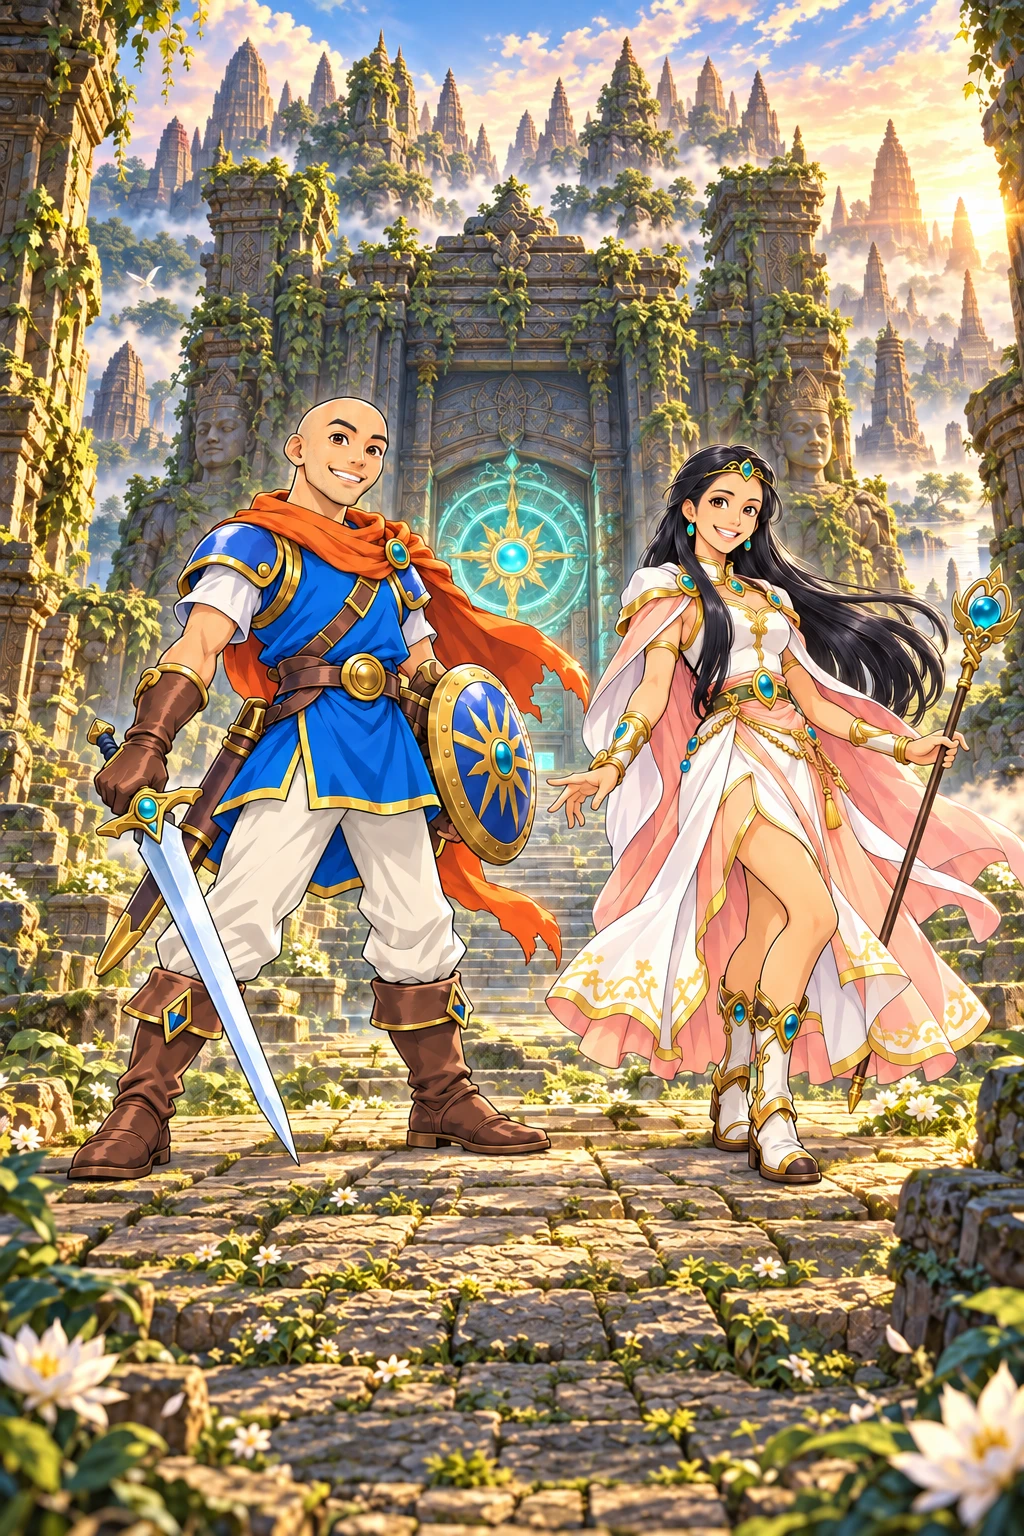
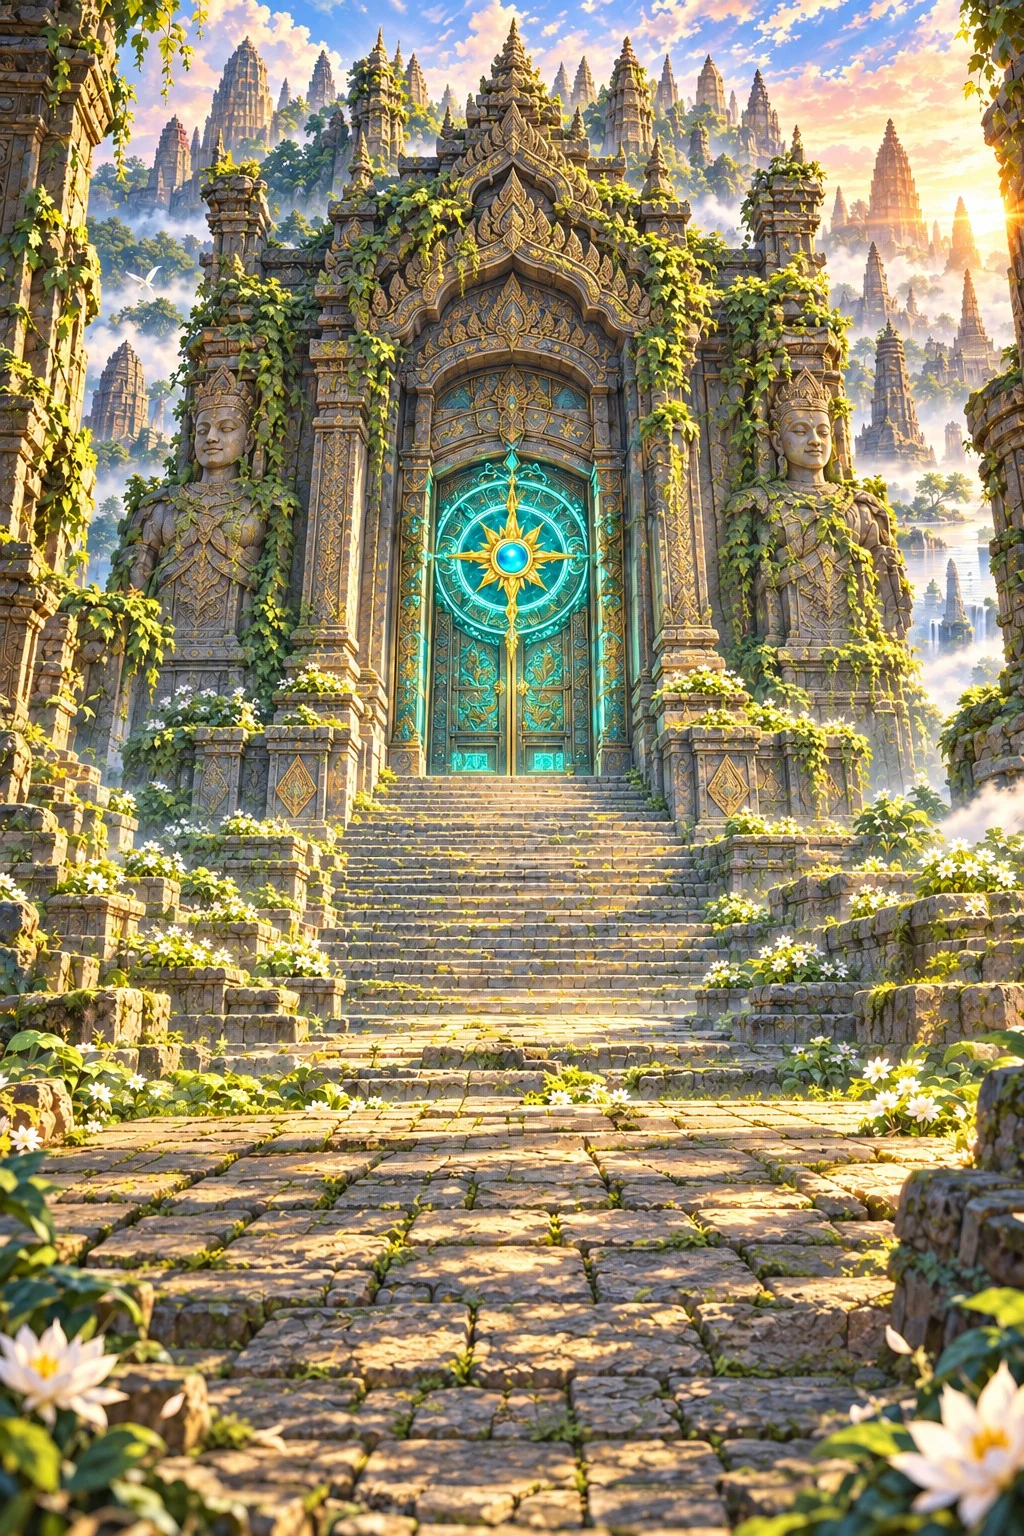
タイトル画面を「タイの大冒険」に（ZIP thai_title_parts_v1：人物なしの背景・ロゴ・ボタンは別々）
ページの題名もタイの大冒険に。ロゴは画面の幅に収め、扉の紋章はロゴ・ボタンで隠さない。
はじめからは青緑、つづきからは金。縦に余った所は同じ背景をぼかして敷く。セーブ・ボタンの動作は変えない。
確認：tools/title-thai-check.js（幅360・390・430・低い画面・横画面）

Claude-Session: https://claude.ai/code/session_01HDLigwwegm7F2trSGLBQuS

diff --git a/css/style.css b/css/style.css
@@ -44,20 +44,23 @@ canvas { display: block; image-rendering: pixelated; image-rendering: crisp-edge
 .screen.active { display: flex; }
 
 /* ---------- タイトル ---------- */
-/* 採用タイトル「封印の遺跡」：背景と二人の絵（2:3）にロゴを重ね、ボタンは絵の下部（高さ78%から）に置く。
- * 絵は画面の幅いっぱい（縦長の端末では左右を少しだけ切って大きく）。顔・ロゴ・ボタンが切れないことを優先し、
- * 余った上下は深緑でつなぐ。低い画面では縦にスクロールできる（ボタンは小さくしない）。横画面は絵の右にボタン。 */
-#screen-title { position: relative; flex-direction: column; align-items: center; justify-content: flex-start; background: #0c261c;
+/* タイトル「タイの大冒険」（ZIP thai_title_parts_v1）：人物なしの背景（2:3）にロゴを重ね、ボタンは扉の下の階段（高さ57%から）に置く。
+ * 絵は画面の幅いっぱい（縦長の端末では左右を少しだけ切る）。ロゴは画面の幅に収め、扉の紋章はロゴ・ボタンで隠さない。
+ * 余った下は同じ背景をぼかして敷く。低い画面では縦にスクロールできる（ボタンは小さくしない）。横画面は絵の右にボタン。 */
+#screen-title { position: relative; flex-direction: column; align-items: center; justify-content: flex-start; background: #2b2619;
   overflow-x: hidden; overflow-y: auto; -webkit-overflow-scrolling: touch;
   padding: env(safe-area-inset-top) env(safe-area-inset-right) env(safe-area-inset-bottom) env(safe-area-inset-left); }
-.title-wrap { --tw: min(600px, 112vw, calc(var(--app-h, 100vh) * 0.6667)); position: relative; flex: none; width: var(--tw);
+.title-wrap { --tw: min(600px, 118vw, calc(var(--app-h, 100vh) * 0.6667)); position: relative; flex: none; width: var(--tw);
   padding-bottom: max(14px, calc(190px - var(--tw) * 0.33)); }
-.title-art-box { position: relative; width: 100%; aspect-ratio: 2 / 3; overflow: hidden; background: #0c261c; }
+.title-art-box { position: relative; width: 100%; aspect-ratio: 2 / 3; overflow: hidden; background: #2b2619; }
 .title-scene { position: absolute; inset: 0; width: 100%; height: 100%; object-fit: cover; display: block; user-select: none; -webkit-user-select: none; }
 /* 絵の下端を深緑へなじませる */
-.title-art-box::after { content: ""; position: absolute; left: 0; right: 0; bottom: 0; height: 9%; pointer-events: none;
-  background: linear-gradient(rgba(12, 38, 28, 0), #0c261c); }
-.title-logo { position: absolute; left: 16.5%; top: 0.5%; width: 67%; margin: 0; line-height: 0; z-index: 2; pointer-events: none; }
+.title-art-box { -webkit-mask-image: linear-gradient(#000 90%, transparent); mask-image: linear-gradient(#000 90%, transparent); }
+/* 絵より縦に長い画面の余り：同じ背景をぼかして暗く敷く（石畳の色でつなぐ。絵そのものは引き伸ばさない） */
+#screen-title::before { content: ""; position: fixed; inset: -24px; z-index: 0; pointer-events: none;
+  background: #2b2619 url("../assets/title/title-scene.webp") center bottom / cover no-repeat; filter: blur(10px) brightness(0.55); }
+.title-wrap { z-index: 1; }
+.title-logo { position: absolute; left: 50%; transform: translateX(-50%); top: 1.3%; width: min(88.3%, calc(100vw - 12px)); margin: 0; line-height: 0; z-index: 2; pointer-events: none; }
 .title-logo img { display: block; width: 100%; height: auto; filter: drop-shadow(0 3px 3px rgba(10, 30, 36, 0.8)); user-select: none; -webkit-user-select: none; }
 /* 封印の扉の光（絵の x50%・y36% 付近）。ゆっくり明滅、光の粒が少しだけ上る。触っても何も起きない */
 .title-glow { position: absolute; left: 50%; top: 36%; width: 0; height: 0; pointer-events: none; z-index: 1; }
@@ -75,20 +78,20 @@ canvas { display: block; image-rendering: pixelated; image-rendering: crisp-edge
 #screen-title:not(.active) .title-glow *, body.app-hidden .title-glow * { animation-play-state: paused; }
 @media (prefers-reduced-motion: reduce) { .title-glow b { animation: none; opacity: 0.25; } .title-glow i { animation: none; display: none; } }
 /* 自動再生できなかったときの控えめな案内（触れても何も起きない＝背景のタップとして扱う） */
-.title-hint { position: absolute; left: 50%; top: 71.5%; transform: translateX(-50%); margin: 0; z-index: 2; pointer-events: none; white-space: nowrap;
+.title-hint { position: absolute; left: 50%; top: 52.5%; transform: translateX(-50%); margin: 0; z-index: 2; pointer-events: none; white-space: nowrap;
   padding: 3px 12px; border-radius: 999px; font-size: 13px; color: #fff6d8; background: rgba(8, 30, 22, 0.62); border: 1px solid rgba(214, 183, 103, 0.55);
   text-shadow: 0 1px 2px rgba(0, 0, 0, 0.6); opacity: 0; animation: hint-in 0.4s ease 0.8s forwards; }
 .title-hint[hidden] { display: none; }
 @keyframes hint-in { to { opacity: 0.92; } }
 @media (prefers-reduced-motion: reduce) { .title-hint { animation: none; opacity: 0.92; } }
-.title-buttons { position: absolute; z-index: 3; top: calc(var(--tw) * 1.5 * 0.78); left: 50%; transform: translateX(-50%);
-  width: min(70%, 380px, calc(100vw - 32px)); display: flex; flex-direction: column; gap: 8px; }
+.title-buttons { position: absolute; z-index: 3; top: calc(var(--tw) * 1.5 * 0.573); left: 50%; transform: translateX(-50%);
+  width: min(66%, 400px, calc(100vw - 40px)); display: flex; flex-direction: column; gap: 8px; }
 .title-row { display: grid; grid-template-columns: 1fr 1fr; gap: 10px; }
-#screen-title .big { min-height: 48px; font-size: clamp(16px, 4.4vw, 22px); font-weight: bold; padding: 6px 10px; letter-spacing: 2px;
-  color: #fff9df; border: 2px solid #d6b767; border-radius: 15px; background: linear-gradient(#1f5a40, #0b3322);
-  box-shadow: inset 0 0 0 2px rgba(54, 92, 70, 0.9), 0 3px 5px rgba(0, 0, 0, 0.55); text-shadow: 0 1px 2px rgba(0, 0, 0, 0.6); }
+#screen-title .big { min-height: 50px; font-size: clamp(16px, 4.6vw, 22px); font-weight: bold; padding: 6px 10px; letter-spacing: 2px;
+  color: #fff6d6; border: 2px solid #e8c56a; border-radius: 16px; background: linear-gradient(#1d7684, #0b4352 55%, #083340);
+  box-shadow: inset 0 0 0 2px rgba(255, 226, 140, 0.35), 0 0 0 1px #6b4a12, 0 3px 6px rgba(0, 0, 0, 0.55); text-shadow: 0 1px 2px rgba(0, 0, 0, 0.6); }
 #screen-title .big.sub { min-height: 44px; font-size: clamp(15px, 4vw, 18px); letter-spacing: 1px; }
-#screen-title .big.primary { min-height: 54px; font-size: clamp(18px, 5vw, 24px); letter-spacing: 3px; color: #40270e; border-color: #fff2b1;
+#screen-title .big.primary { min-height: 56px; font-size: clamp(18px, 5vw, 24px); letter-spacing: 3px; color: #40270e; border-color: #fff2b1;
   background: linear-gradient(#fff2b1, #e6ae36); box-shadow: inset 0 0 0 2px #ffeebb, 0 3px 5px rgba(0, 0, 0, 0.55); text-shadow: 0 1px 0 rgba(255, 255, 255, 0.5); }
 #screen-title .big:active { transform: translateY(1px); }
 #screen-title .big:focus-visible { outline: 3px solid #fff; outline-offset: 3px; }

diff --git a/tools/title-thai-check.js b/tools/title-thai-check.js
@@ -1,0 +1,37 @@
+// タイトル画面「タイの大冒険」（ZIP thai_title_parts_v1）の確認：node tools/title-thai-check.js [出力フォルダ]（既定 docs/title-thai-v1/）
+// 幅360・390・430（と低い画面・横画面）で、ロゴ全体・扉の紋章・ボタンが見えるか、ボタンが重ならないか、タップの高さ44px以上か、ページの題名
+const { chromium } = (() => { try { return require('playwright'); } catch (e) { return require('/opt/node22/lib/node_modules/playwright'); } })();
+const http = require('http'), fs = require('fs'), path = require('path');
+const ROOT = path.join(__dirname, '..'), OUT = process.argv[2] || path.join(ROOT, 'docs', 'title-thai-v1');
+fs.mkdirSync(OUT, { recursive: true });
+const TYPES = { '.html': 'text/html', '.js': 'text/javascript', '.css': 'text/css', '.png': 'image/png', '.webp': 'image/webp', '.jpg': 'image/jpeg', '.mp3': 'audio/mpeg' };
+const srv = http.createServer((q, r) => { let f = path.join(ROOT, decodeURIComponent(q.url.split('?')[0])); if (f.endsWith('/')) f += 'index.html';
+  fs.readFile(f, (e, d) => { if (e) { r.writeHead(404); r.end(); return; } r.writeHead(200, { 'Content-Type': TYPES[path.extname(f)] || 'application/octet-stream' }); r.end(d); }); }).listen(8854);
+let ok = 0, ng = 0; const chk = (c, m) => { if (c) ok++; else ng++; console.log(c ? 'OK' : 'NG', m); };
+(async () => {
+  const b = await chromium.launch();
+  for (const [w, h] of [[360, 780], [390, 844], [430, 932], [375, 667], [844, 390]]) {
+    const p = await (await b.newContext({ viewport: { width: w, height: h }, isMobile: true, hasTouch: true, deviceScaleFactor: 2 })).newPage();
+    const errs = []; p.on('pageerror', (e) => errs.push(e.message));
+    await p.goto('http://localhost:8854/'); await p.waitForTimeout(300);
+    await p.evaluate(() => { const S = TS.Game.newState(); S.village.story.introDone = true; S.village.seenIntro = true; TS.Save.save(S); }); await p.reload(); await p.waitForTimeout(900);
+    const m = await p.evaluate(() => {
+      const R = (id) => { const r = document.querySelector(id).getBoundingClientRect(); return { x: r.x, y: r.y, r: r.right, b: r.bottom, h: r.height, shown: r.height > 0 }; };
+      const img = document.getElementById('title-logo'), art = R('#title-scene');
+      return { title: document.title, logo: R('#title-logo'), loaded: img.complete && img.naturalWidth > 0, art, door: { x: art.x + (art.r - art.x) * 0.5, y: art.y + (art.b - art.y) * 0.37 },
+        btn: ['#btn-continue', '#btn-newgame', '#btn-help-title', '#btn-sound-title'].map(R).filter((x) => x.shown), vw: innerWidth, vh: innerHeight, sw: document.documentElement.scrollWidth };
+    });
+    const tag = `${w}x${h}`;
+    chk(m.title === 'タイの大冒険', `${tag} ページの題名`);
+    chk(m.loaded && m.logo.x >= 0 && m.logo.r <= m.vw, `${tag} ロゴ全体が画面内 ${Math.round(m.logo.x)}〜${Math.round(m.logo.r)}`);
+    const bt = m.btn; let over = false;
+    for (let i = 0; i < bt.length; i++) for (let j = i + 1; j < bt.length; j++) { const a = bt[i], c = bt[j]; if (a.x < c.r && c.x < a.r && a.y < c.b && c.y < a.b) over = true; }
+    chk(!over && bt.every((x) => x.h >= 44 && x.x >= 0 && x.r <= m.vw), `${tag} ボタンが重ならない・44px以上・はみ出さない`);
+    if (w < h) chk(bt.length === 4 && bt[0].y > m.door.y + 20 && m.logo.b < m.door.y - 20, `${tag} 扉の紋章をロゴ・ボタンで隠さない`);
+    chk(m.sw <= m.vw, `${tag} 横にはみ出さない`);
+    chk(!errs.length, `${tag} エラーなし ${errs.join(' / ')}`);
+    await p.screenshot({ path: path.join(OUT, `title_${tag}.jpg`), quality: 85 });
+    await p.context().close();
+  }
+  await b.close(); srv.close(); console.log(`\n${ok} OK / ${ng} NG`);
+})();

diff --git a/index.html b/index.html
@@ -6,8 +6,8 @@
   <meta name="theme-color" content="#0b2a3a">
   <meta name="mobile-web-app-capable" content="yes">
   <meta name="apple-mobile-web-app-capable" content="yes">
-  <meta name="description" content="たけとサイの大冒険 ― 封印の遺跡 ―：スマホで遊べるターン制ダンジョン探索ゲーム">
-  <title>たけとサイの大冒険 ― 封印の遺跡 ―</title>
+  <meta name="description" content="タイの大冒険 ― 封印の遺跡 ―：スマホで遊べるターン制ダンジョン探索ゲーム">
+  <title>タイの大冒険</title>
   <link rel="icon" type="image/png" href="favicon.png">
   <link rel="apple-touch-icon" href="favicon.png">
   <link rel="stylesheet" href="css/style.css">
@@ -16,13 +16,13 @@
   <div id="app">
     <!-- タイトル -->
     <section id="screen-title" class="screen active">
-      <!-- 採用タイトル「たけとサイの大冒険 ― 封印の遺跡 ―」：背景と二人は1枚の絵、ロゴは透過画像、ボタンは本物の button -->
+      <!-- タイトル「タイの大冒険 ― 封印の遺跡 ―」（ZIP thai_title_parts_v1）：背景（人物なし）・ロゴ（透過画像）・ボタン（本物の button。文字はゲーム側）は別々 -->
       <div class="title-wrap">
         <div class="title-art-box">
-          <img id="title-scene" class="title-scene" src="assets/title/title-scene.webp" alt="封印の扉の前に立つたけとサイ" draggable="false">
+          <img id="title-scene" class="title-scene" src="assets/title/title-scene.webp" alt="遺跡の奥にある、青く光る封印の扉" draggable="false">
           <p id="title-sound-hint" class="title-hint" hidden>♪ タップで音楽を再生</p>
           <div class="title-glow" aria-hidden="true"><b></b><i></i><i></i><i></i><i></i></div>
-          <h1 class="title-logo"><picture><source srcset="assets/title/title-logo.webp" type="image/webp"><img id="title-logo" src="assets/title/title-logo.png" alt="たけとサイの大冒険 ― 封印の遺跡 ―" draggable="false"></picture></h1>
+          <h1 class="title-logo"><picture><source srcset="assets/title/title-logo.webp" type="image/webp"><img id="title-logo" src="assets/title/title-logo.png" alt="タイの大冒険 ― 封印の遺跡 ―" draggable="false"></picture></h1>
         </div>
         <nav class="title-buttons" aria-label="ゲームメニュー">
           <button id="btn-continue" class="big primary">つづきから</button>

diff --git a/assets/reference/thai_title_parts_v1/README.md b/assets/reference/thai_title_parts_v1/README.md
@@ -1,0 +1,25 @@
+# タイの大冒険 タイトル素材 v1
+
+## 内容
+- title_bg.png：1024×1536、背景のみ。人物・文字・ボタンなし。
+- title_logo.png：1200×480、RGBA透過。題名「タイの大冒険」は横一列、副題「― 封印の遺跡 ―」を含みます。
+- reference/approved_layout.png：承認済みの配置見本。ゲーム背景として直接使わないでください（ボタン文字が焼き込まれています）。
+
+背景とロゴは、承認図を作る際に使った分離済みの元画像から用意しました。背景はそのまま、ロゴのみ幅1200pxへ縮小しています。完成見本は画像生成で合成したため、元画像の再合成と細部までピクセル一致するものではありません。新しいデザインへの変更・再生成はしていません。
+
+## 組み立て
+1. 背景を表示。中央の扉を中心に配置。背景四辺の景色は少量のトリミングが可能です。画像自体を引き伸ばして縦横比を変えないでください。
+2. ロゴを別レイヤーとして上部中央に配置。1024×1536の基準画面で、おおむね x=60,y=20,width=904,height=362。装飾込みの画像全体を表示してください。
+3. 既存のゲーム側ボタンを再利用して色調整。文字はゲーム側のテキストで表示します。新しいボタン枠素材は含みません。
+4. 基準画面で、続きからは x=185,y=880,w=654,h=133、はじめからは x=195,y=1020,w=634,h=117、小ボタンは左 x=205,y=1145,w=300,h=82、右 x=520,y=1145,w=300,h=82 が配置目安です。実際の枠の透明余白を考慮して見本に合わせてください。
+5. 青い扉の紋章をメニューで隠さないようにし、メニューの下には石畳の余白を残してください。
+
+## 端末対応
+- 背景のトリミングとUI配置は別管理。背景に合わせてボタンまで切らないこと。
+- 幅360/390/430と高さの違う端末で、ロゴ全文・ボタン・タップ範囲を確認してください。
+- 極端な縦横比では背景の拡大を抑え、余白色で補って扉を守ってください。安全領域と最低44CSS px程度のタップ高さを確保。
+- ボタン画像に文字を焼き込まないこと。音のオン／オフは実際の状態と一致させてください。
+- 既存セーブ・保存キー・各ボタンの動作は維持。名前入力機能は今回の対象外です。
+
+## 検証
+PNGの寸法・読込、ロゴの透過を確認しました。ゲーム本体での動作は未確認です。
